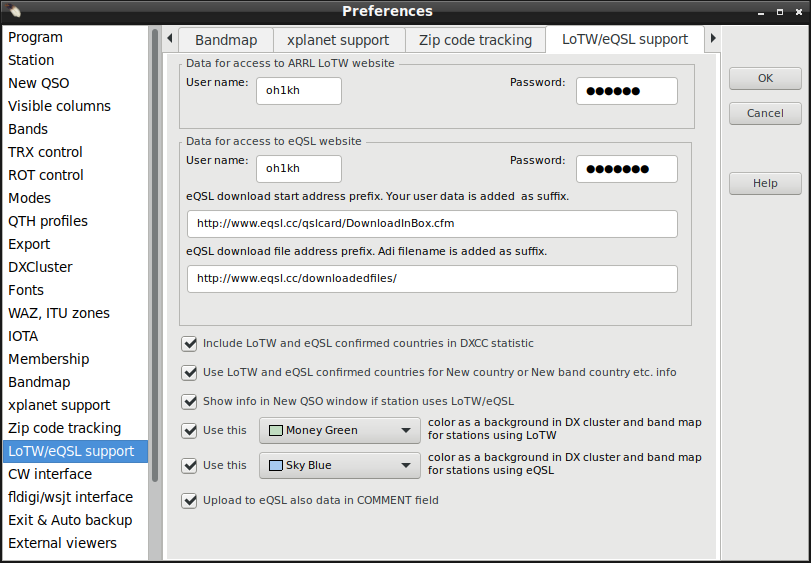
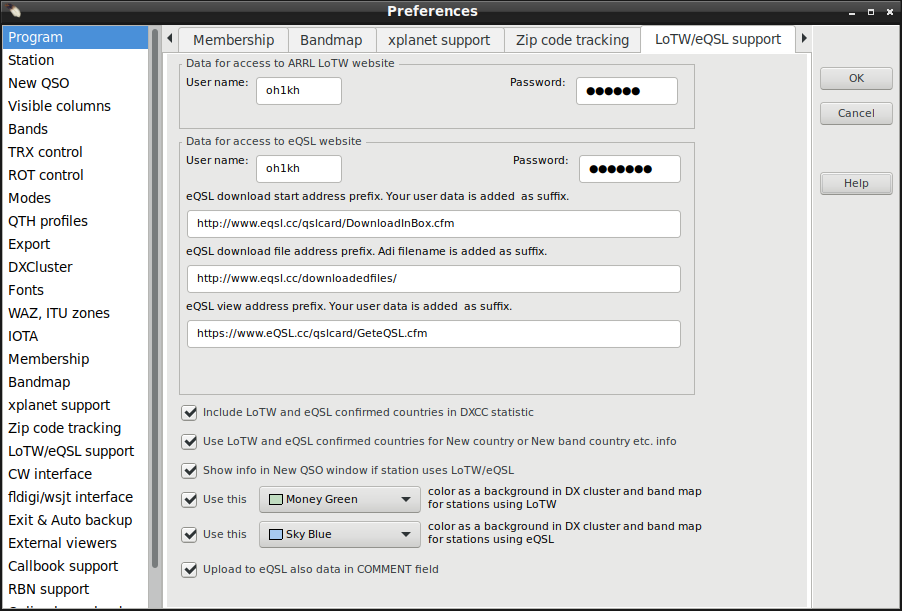
Show received eQSL
From time to time I have wanted to see what kind of eQSL I have received (I do not open them all). How ever it is rather complicated to surf via eQSL web page and dig out eQSL for certain qso (Or I have wrong methods).

Discussion in forum https://www.cqrlog.com/node/2351 made me onve again think about that subject. I still think that if one wants all eQSLs loaded and placed under ~/.config/cqrlog/call_data folder the best solution is external script that reads database, pick up eQSLs and creates proper folder and filename for them all.

But if the need is just every now and then peek one or some eQSLs then it could be part of cqrlog.

This addition shows eQSL in web browser when right click a selected callsign in NewQSO/worked before grid or in QSO list qso list grid.
If selected callsign has eQSL_rcvd date set then "View eQSL" menu item is added to right click popup menu list. Selecting that will show eQSL in web browser.

Squashed commit of the following:

commit ffcd1830e9e886a488c1054a62b6cf8f0258ebf0
Merge: d63724c 6e05004
Author: OH1KH <oh1kh@sral.fi>
Date:   Mon Nov 18 13:53:24 2019 +0200

    Merge branch 'master' into show_eqsl

commit d63724c4b14a76b33c12e2d1b6fbde12b6dfbfd9
Author: OH1KH <oh1kh@sral.fi>
Date:   Sat Nov 16 12:08:49 2019 +0200

    Changed all eqsl.cc defaults to use https instead of http

commit 8984119410b4c0efbc598ddca8e2745684151ffb
Author: OH1KH <oh1kh@sral.fi>
Date:   Sat Nov 16 11:54:55 2019 +0200

    Bugfix in preferences
[…]

Changed region(s): [[0.0, 0.0, 1.0, 1.0], [0.894, 0.0906, 1.0, 0.2416], [0.894, 0.2718, 1.0, 0.3623]]

diff --git a/help/h25.html b/help/h25.html
@@ -52,10 +52,10 @@
     The QSOs made in last few days <a href="h1.html#ah4">(see Preferences -> New QSO)</a>
     are displayed in the logging screen. Right click on the required record which appears
     in the logging screen, and select edit QSO, exactly as described above
-    (here 5R8IC will be edited).<br></div>
-<p><img src=img/h94.png></p>
-<div align="justify">You can also view the record and search in the QRZ database or
-    look for the QSL manager in the IK3QAR QSL manager database.
+    (here OH1MRR will be edited).<br></div>
+<p><img src=img/h94b.png><br><img src=img/h94.png></p>
+<div align="justify">You can also view the record and search in the HamQth or QRZ database or
+    look for the QSL manager in the IK3QAR QSL manager database. And if eQSL is marked as received you have option to view eQSL (opens in web browser).
     <p align=center><img src=img/line.png></p>
 
     <a name="grp"><h2><strong>Group edit</strong></h2></a>
